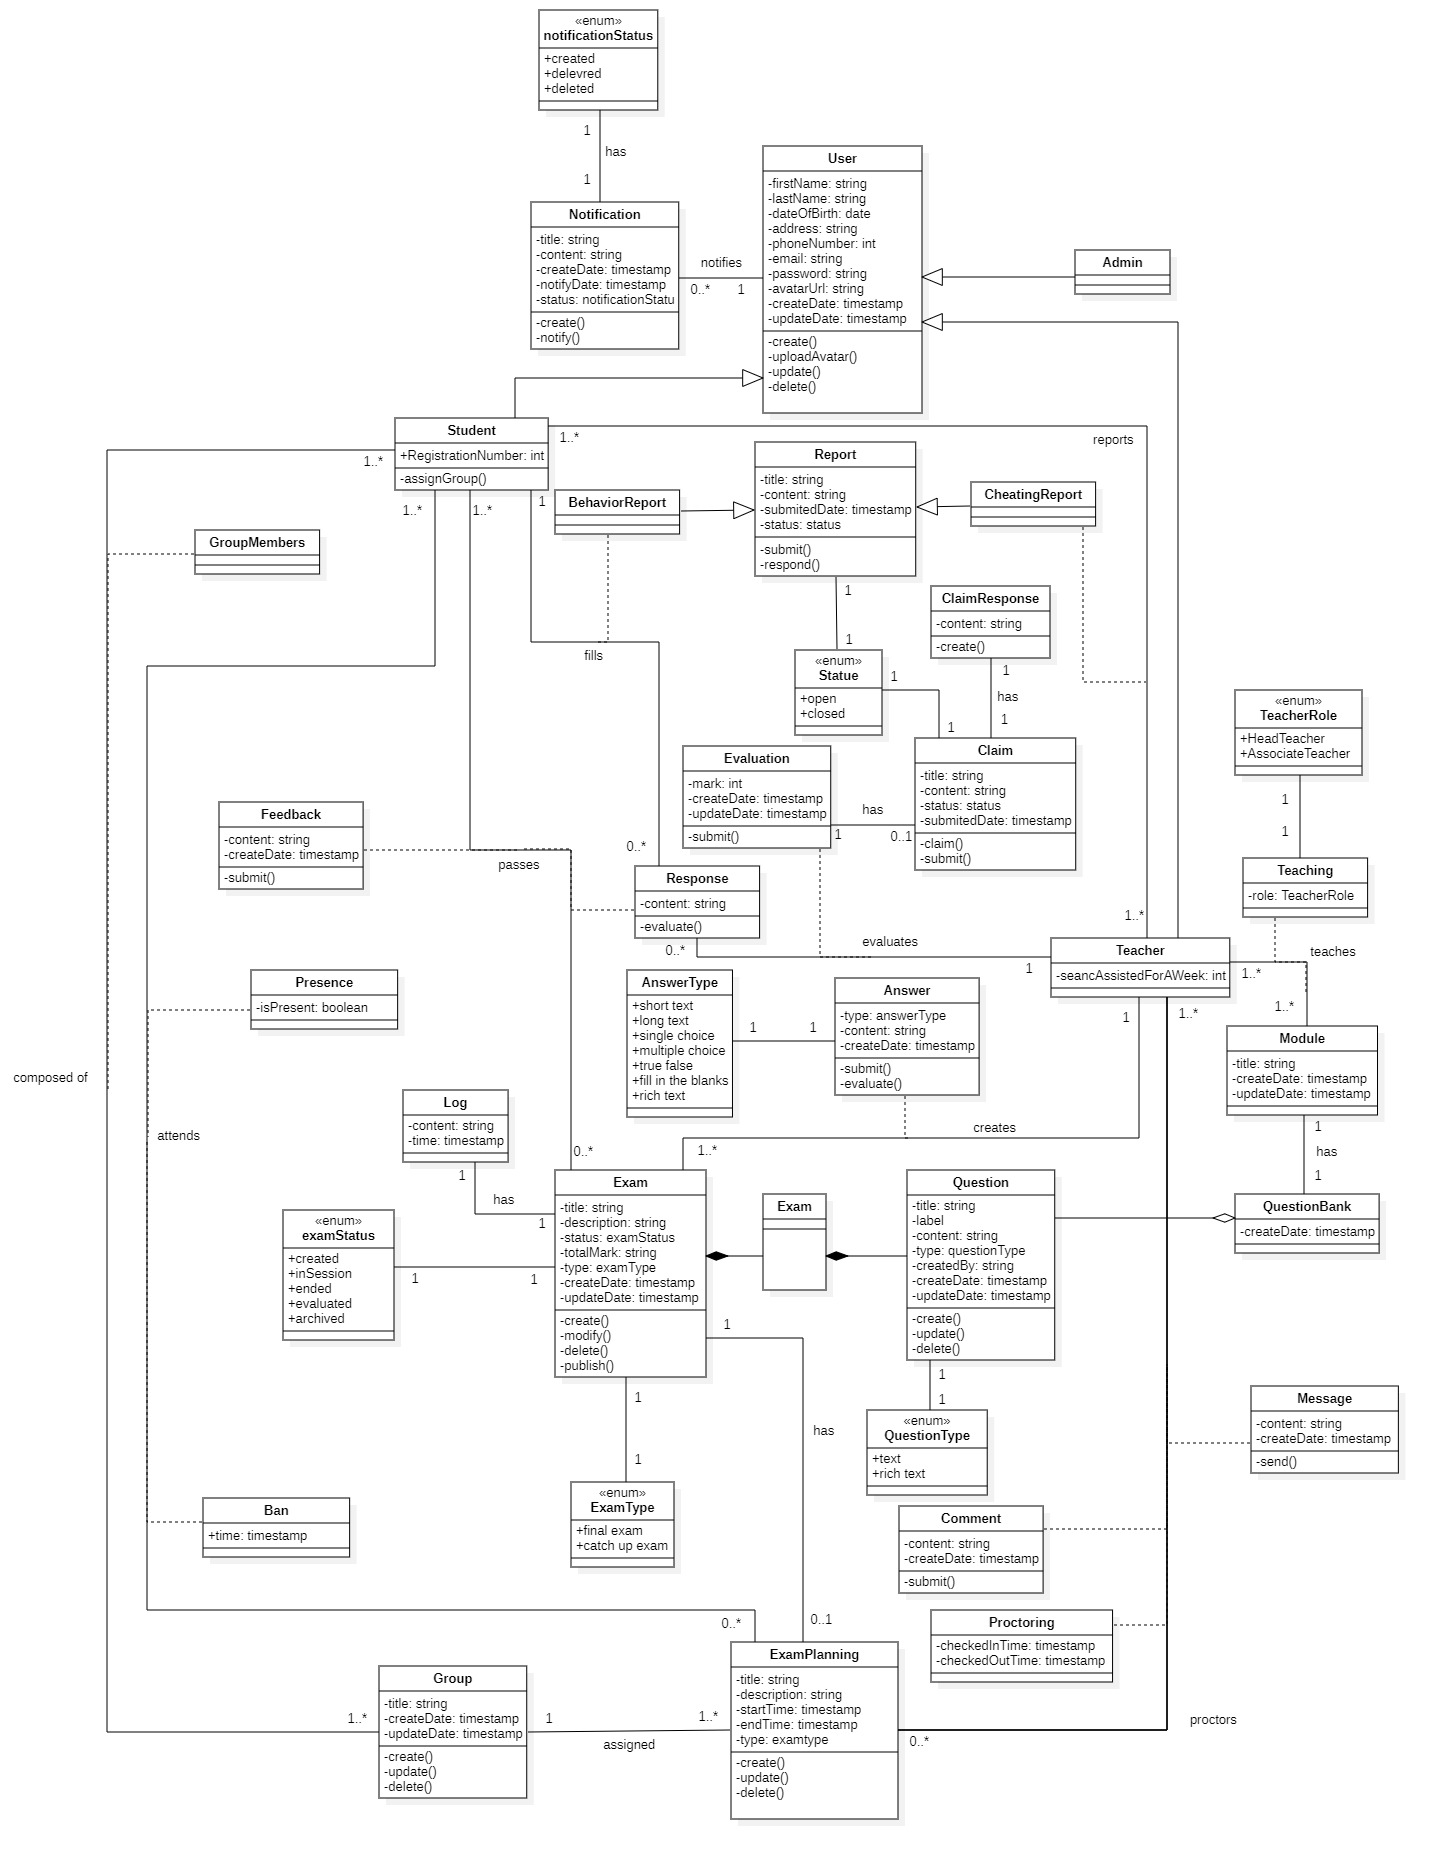
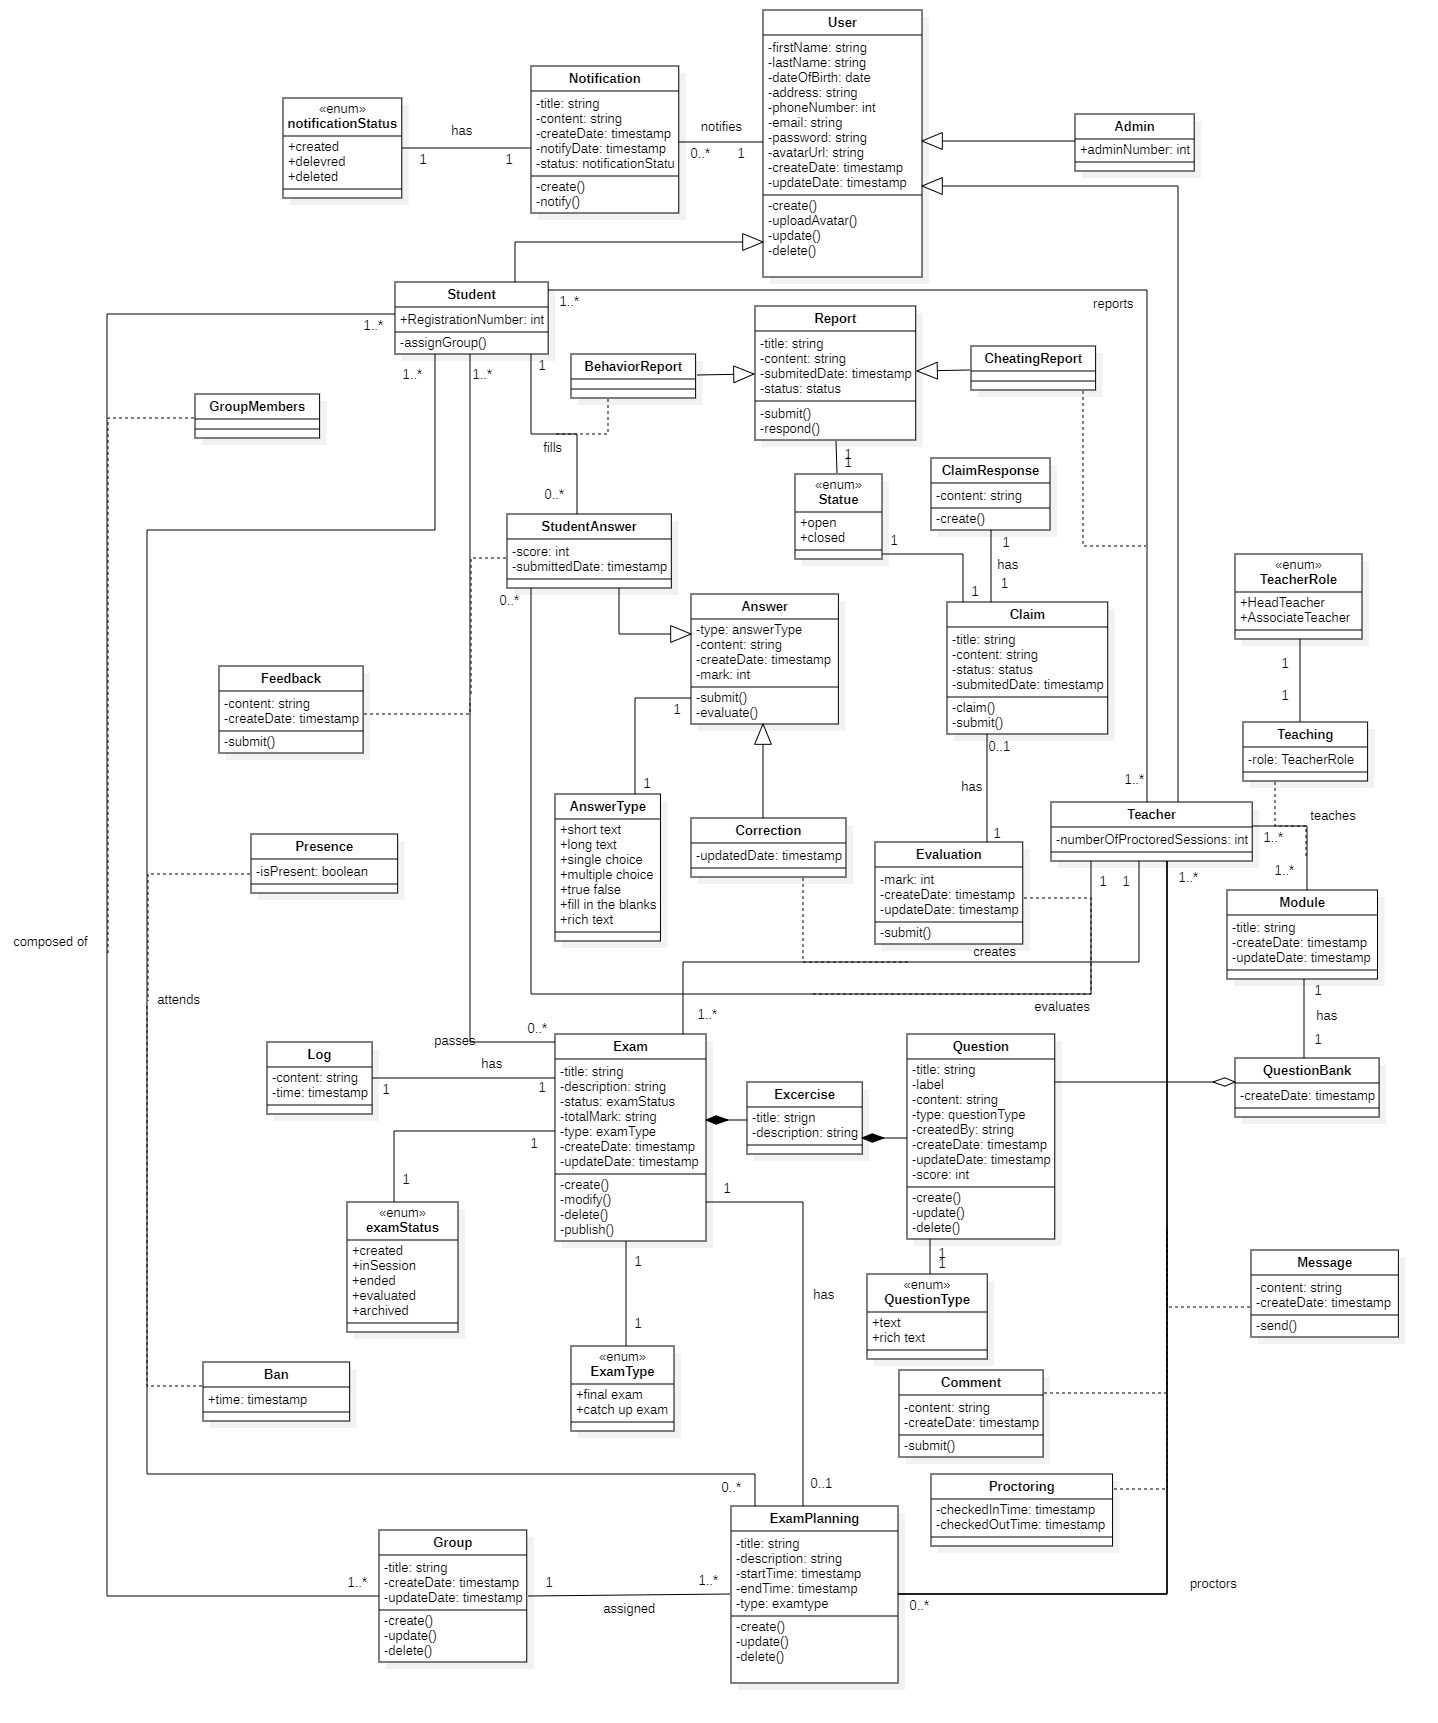
fix: Db schema updated

diff --git a/Chapters/Chapter2.tex b/Chapters/Chapter2.tex
@@ -1,4 +1,4 @@
-\documentclass[]{uc2pfecaneva}
+  \documentclass[]{uc2pfecaneva}
 
 \includepdf[pages=-]{garde.pdf}
 \begin{document}
@@ -8,17 +8,17 @@
     \chapter{Conception}
     \newpage
 
+
     \raggedright\section{Introduction}
     In the development process the conception phase is an essential part since it provides a representation of the structure of the system in a static way (domain model).
     The purpose of this chapter is to examine the conceptual part of our system, We first define the entities in the system, based on that, we construct the domain class diagram where we define the relationships between entities, where we describe the attributes, the operations and their visibility for each entity, and finally we conclude with a conclusion.
 
+    \raggedright\section{Domain Model}
+    The domain model is a visual representation of real world entities and the relationships between them, which collectively describe the problem domain space, It's used to clarify important domain-specific terms and to identify the entity classes.
+    \raggedright\subsection{Entities}
+    A list of all entities and brief description for each one specifying the role of that entity\linebreak \\
+    \begin{table}[h]
 
-
-    \begin{table}
-        \raggedright\section{Domain Model}
-        The domain model is a visual representation of real world entities and the relationships between them, which collectively describe the problem domain space, It's used to clarify important domain-specific terms and to identify the entity classes.
-        \raggedright\subsection{Entities}
-        A list of all entities and brief description for each one specifying the role of that entity\linebreak \\
 
         \begin{tabularx}{\textwidth}{|l|X|}
             \hline
@@ -38,7 +38,8 @@
             \textbf{Feedback :} & the student feedback and impression after an exam session.\\ \hline
             \textbf{Group :} & Holds the name and information about a group of student assigned to an exam session.\\ \hline
             \textbf{GroupMembers :} & Holds the students list of each group.\\ \hline
-            \textbf{Answer :} & the student answer of a question.\\ \hline
+            \textbf{Answer :} & Mother class of both StudentAnswer and the Correction made by the teacher.\\ \hline
+            \textbf{StudentAnswer :} & the student answer to a question.\\ \hline
             \textbf{AnswerType :} & enumeration entity that holds all answer types.\\ \hline
             \textbf{Evaluation :} & the response evaluation of a question.\\ \hline
             \textbf{Correction :} & the exam correction added by the head teacher.\\ \hline
@@ -90,16 +91,44 @@
     \end{figure}
     \clearpage
 
-    \begin{figure}
-        \raggedright\section{Migration to database}
 
-        \raggedright Shows the database tables and their relations and attributes.
-        \linebreak
+    \raggedright\section{Database}
+    NoSQL, also referred to as “not only SQL”, “non-SQL”, is an approach to database design that enables the storage and querying of data outside the traditional structures found in relational databases.\linebreak
+    \linebreak
+    NoSQL databases invariably incorporate a flexible schema model and are designed to scale horizontally across many servers, which makes them appealing for large data volumes or application loads that exceed the capacity of a single server.
+    The popularity of NoSQL has been driven by the following reasons:
+
+    \begin{itemize}
+        \item The pace of development with NoSQL databases can be much faster than with a SQL database.
+        \item The structure of many different forms of data is more easily handled and evolved with a NoSQL database.
+        \item The amount of data in many applications cannot be served affordably by a SQL database.
+        \item The scale of traffic and need for zero downtime cannot be handled by SQL.
+        \item New application paradigms can be more easily supported.
+    \end{itemize}
+    \linebreak
+    Here are the four main types of NoSQL databases: \textbf{Key-Value Stores, Column-Oriented Databases, Graph Databases, Document Databases.}
+
+
+    \subsubsection{MangoDB:}
+    MongoDB is a document database. In our development for the OSES system, we had to choose a database that will be flexible for potential scalability. \linebreak
+    The reason for that is because we want our system to be able to constantly change to serve the needs of our customers.
+
+    So we used the nosql databases, which was designed for this purpose in the first place,
+    And which stand for not only sql,
+    \clearpage
+
+
+    \subsection{Database schema:}
+    \raggedright Shows the database tables and their relations and attributes.
+    \begin{figure}[h]
         \includegraphics[width=\textwidth]{images/DbSchema}
         \caption{Database schema diagram}
     \end{figure}
-    \clearpage
+
     \raggedright\section{Conclusion}
+    Throughout this chapter we walked through the conceptual aspects of our system, starting with the domain model in which entities are defined, followed by the domain class diagram; based on the domain class diagram we outlined what entities, attributes and methods make up our system.
+    The first part of this chapter described how we envisioned our system and constructed its static aspect, but it was incomplete without speaking about how we implemented it to the physical level: the database, which is what the last part discusses, from transformation rules to the actual database diagram.
+    In the next chapter and using the previous chapters as a foundation, we will cover the implementation part of our system, the technological choices, and the final results.
 
 
 \end{document}
